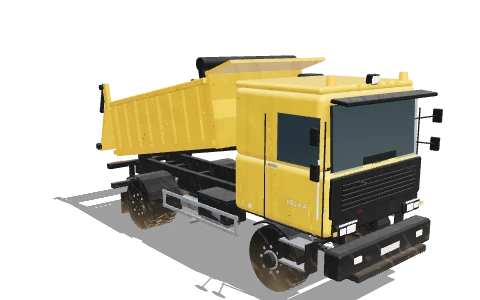
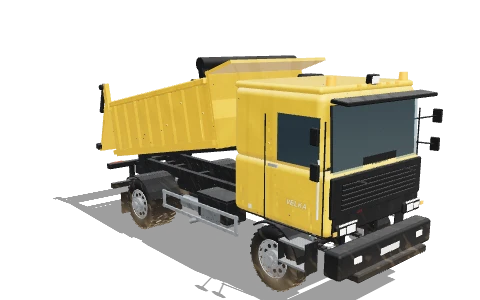
v4.1.0: model pass and bug fixes
Version bump (game 4.1.0, Android versionCode 15) and regenerated menu art and
machine pictures for the new wheels and trees.

Claude-Session: https://claude.ai/code/session_01EynHmZRwtARegvioyU37P7

diff --git a/public/index.html b/public/index.html
@@ -30,7 +30,7 @@
       <div id="titleMsg" class="title-msg"></div>
     </div>
   </div>
-  <div class="title-foot"><span>Smash buildings · crush the rubble · mix cement · fix the road</span><span class="ver">v4.0.0</span></div>
+  <div class="title-foot"><span>Smash buildings · crush the rubble · mix cement · fix the road</span><span class="ver">v4.1.0</span></div>
 </div>
 
 <!-- HUD -->
